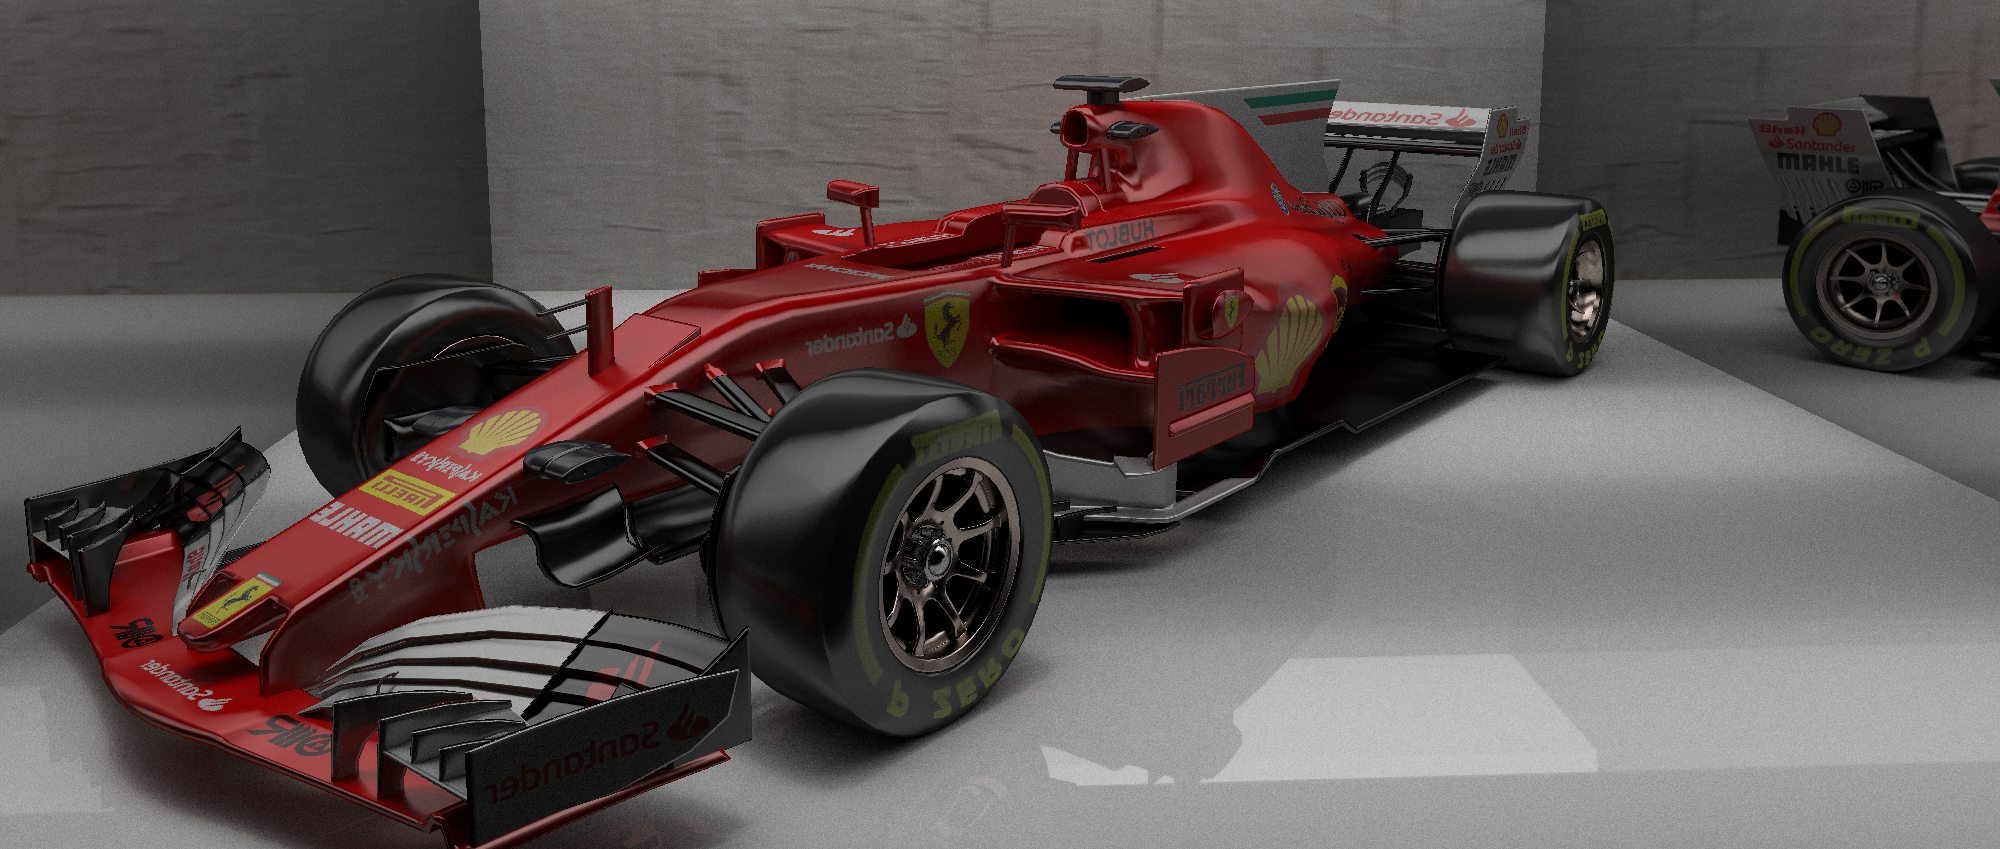
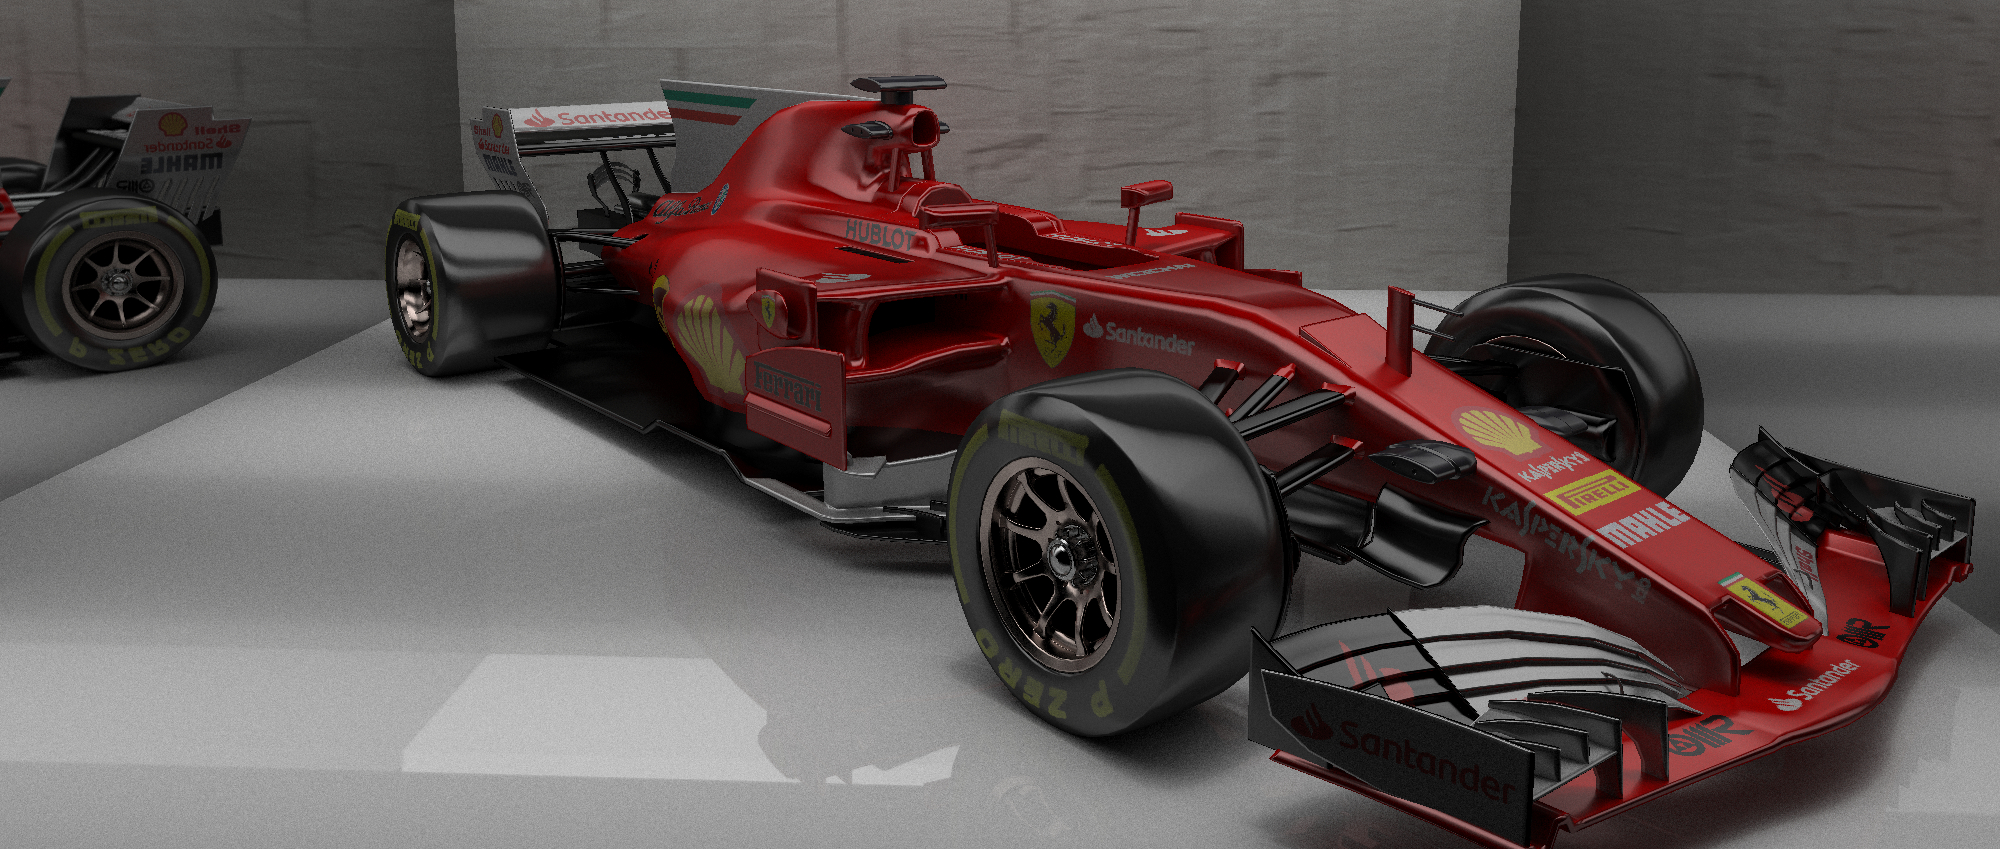
Update images

diff --git a/README.md b/README.md
@@ -2,12 +2,13 @@
 
 ![](images/20200227_f1.jpg)
 
-![](images/20200216_la_ferrari.jpg)
+![](images/20200228_la_ferrari.png)
 
 ![](images/20200224_dragon.jpg)
 
 ![](images/20200110_dragon.jpg)
 
+![](images/20200228_aventador.jpg)
 
 ## Credits
 
